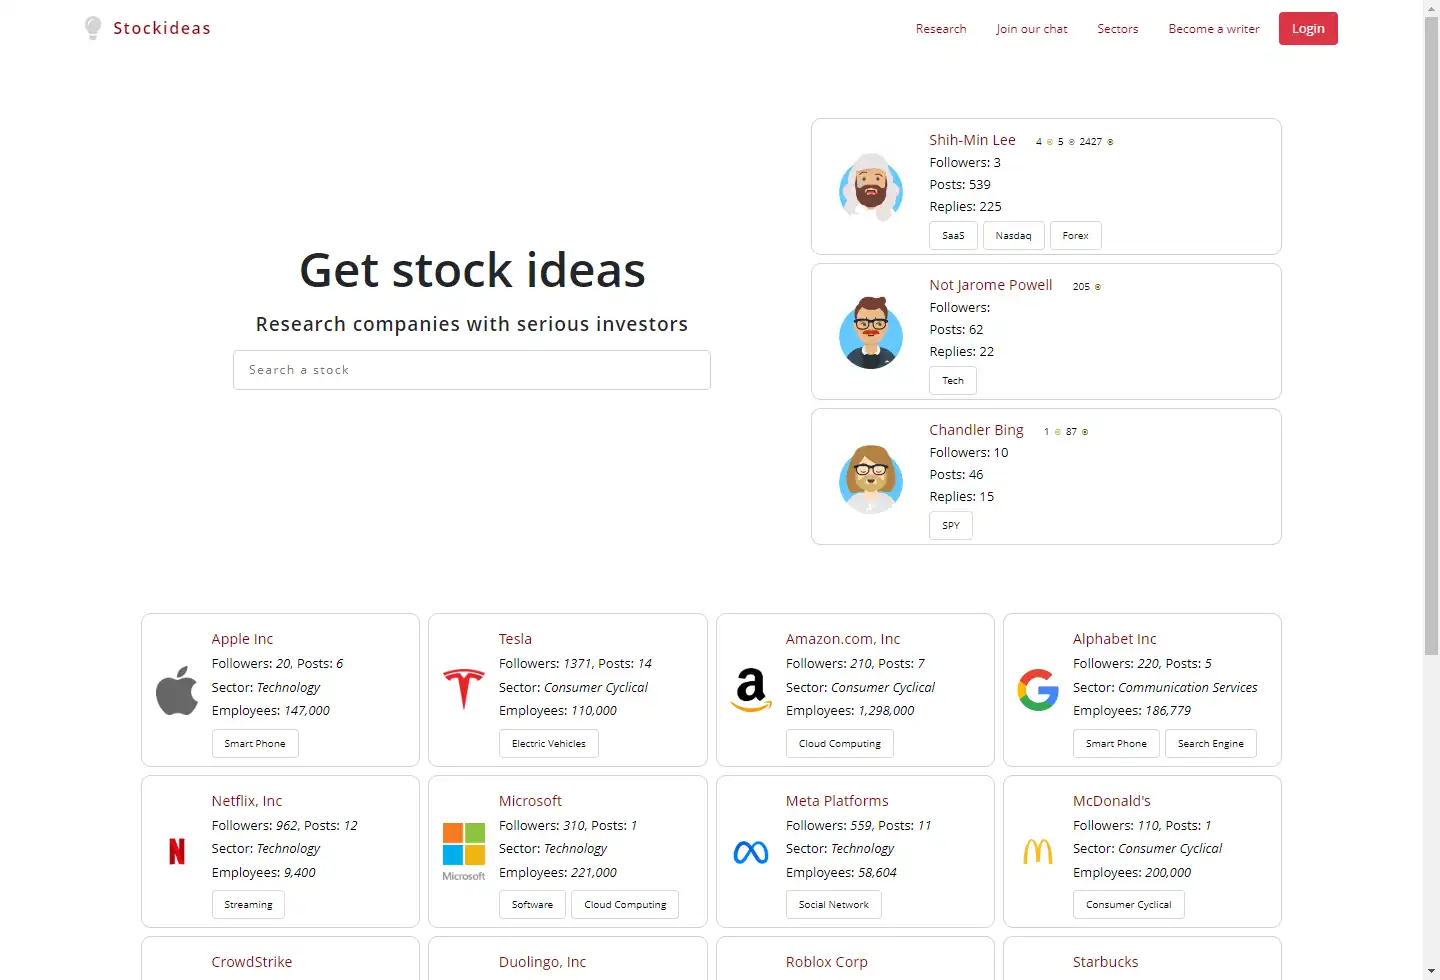
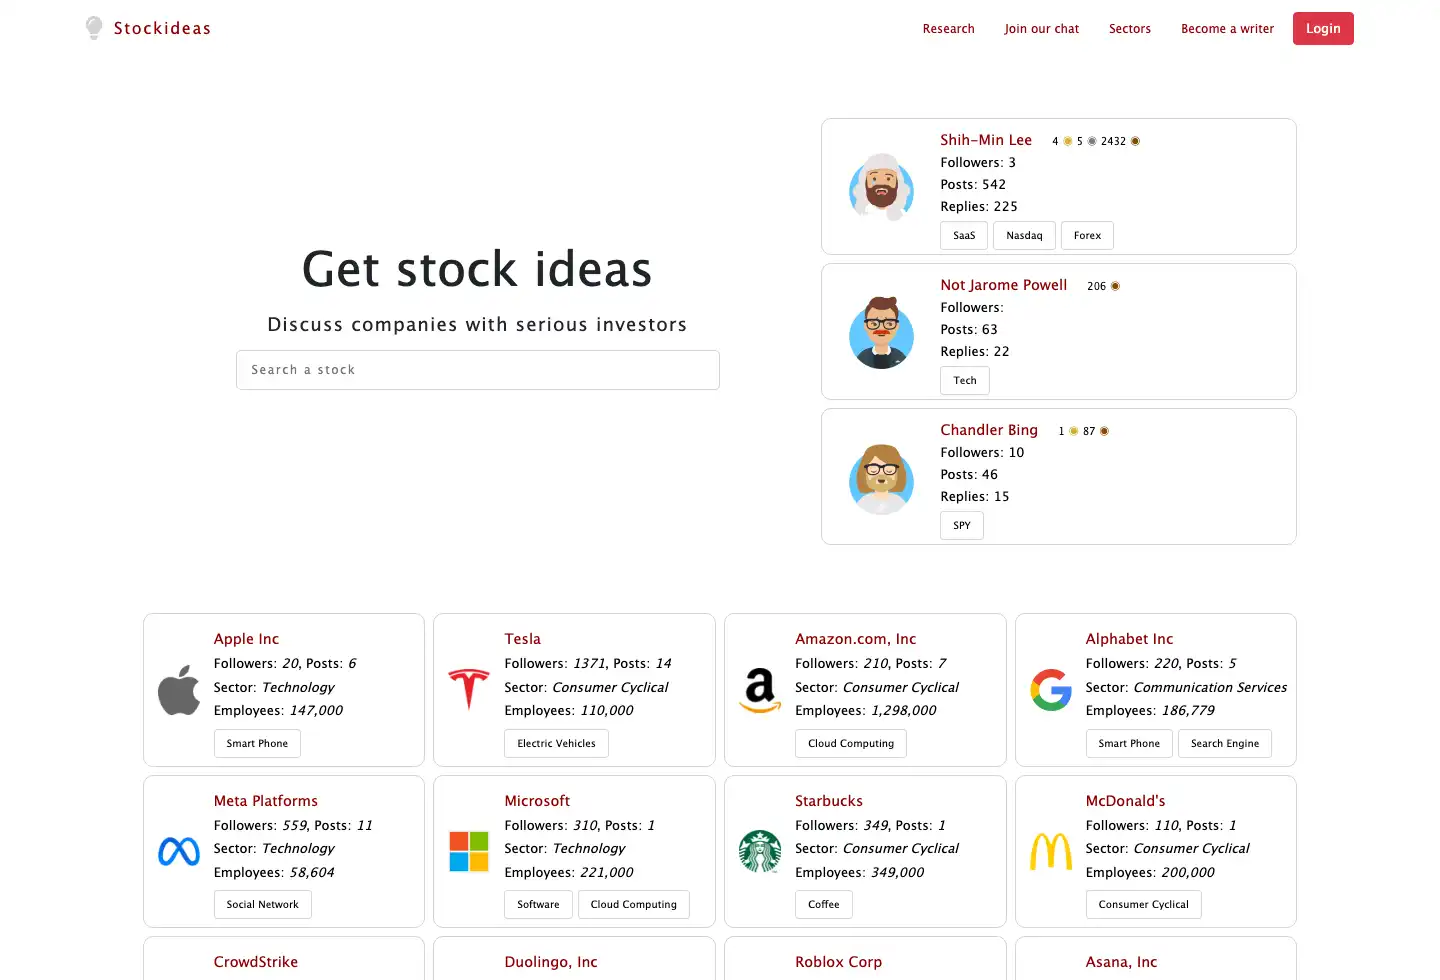
docs: improve styling docs (#2367)

diff --git a/packages/docs/scripts/showcase.js b/packages/docs/scripts/showcase.js
@@ -18,7 +18,6 @@ async function captureMultipleScreenshots() {
       headless: true,
     });
     const incognito = await browser.createIncognitoBrowserContext();
-
     let existingJson = [];
     try {
       const data = fs.readFileSync(OUTPUT_JSON, 'utf8');
@@ -31,6 +30,9 @@ async function captureMultipleScreenshots() {
       let page;
       try {
         page = await incognito.newPage();
+        page.setUserAgent(
+          'Mozilla/5.0 (Macintosh; Intel Mac OS X 10_15_7) AppleWebKit/537.36 (KHTML, like Gecko) Chrome/108.0.0.0 Safari/537.36'
+        );
 
         // set viewport width and height
         await page.setViewport({
